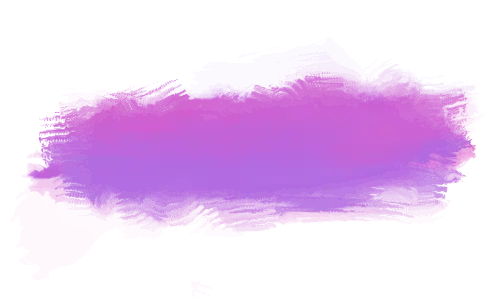
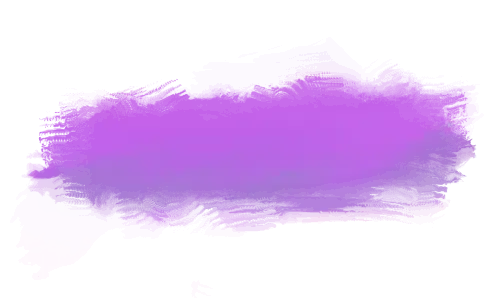
Disable auto scroll on mobile Make headers less tall Update values background Seperate contact block Adjust dark colors Adjust slider button location Adjust email text size Fix theme/lang at bottom Fix typo Fix email image color

diff --git a/app/components/Contact.vue b/app/components/Contact.vue
@@ -1,8 +1,10 @@
 <template>
   <SectionHeader v-bind="sections[2]!" />
-  <div class="bg-nt1-offwhite -mt-16 pb-2 sm:pb-4 md:pb-[10vh] dark:bg-black">
+  <div
+    class="bg-nt1-offwhite dark:bg-nt1-offblack -mt-16 flex pb-2 sm:pb-4 md:pb-[10vh]"
+  >
     <div
-      class="dark:bg-nt1-offblack mx-2 flex flex-col items-center rounded-b-2xl bg-white px-4 pt-20 sm:mx-4 sm:px-8 md:mx-auto md:w-2xl lg:w-4xl xl:w-5xl dark:text-white"
+      class="mx-2 mt-20 flex flex-col items-center rounded-2xl bg-white px-4 pt-8 sm:mx-4 sm:px-8 sm:pt-12 md:mx-auto md:w-2xl lg:w-4xl xl:mt-28 xl:w-5xl dark:bg-black dark:text-white"
     >
       <h4 class="mb-4 text-center text-3xl">{{ $t('contactTagLine') }}</h4>
 
@@ -33,7 +35,7 @@
 
         <a
           href="mailto:hello@naito.one"
-          class="absolute top-0 left-0 flex h-full w-full items-center justify-center text-2xl font-semibold text-white"
+          class="absolute top-0 left-0 flex h-full w-full items-center justify-center text-xl font-semibold text-white sm:text-2xl"
           ><span>hello@naito.one</span></a
         >
       </div>

diff --git a/app/components/Showcase.vue b/app/components/Showcase.vue
@@ -20,7 +20,7 @@
       >
     </div>
     <div
-      class="flex grow basis-0 flex-col-reverse gap-4 md:flex-col md:gap-0"
+      class="flex grow basis-0 flex-col gap-4 md:gap-0"
       @mouseenter="
         () => {
           hovered = true
@@ -101,6 +101,7 @@ import type { RouteLocationNormalized } from 'vue-router'
 import type { ShowcaseParams } from '~/showcases'
 
 const router = useRouter()
+const isMobile = useIsMobile()
 
 const props = defineProps<ShowcaseParams>()
 
@@ -173,7 +174,7 @@ function timeoutToScroll() {
 }
 
 function updateShouldRun() {
-  if (visible.value && !hovered.value) {
+  if (visible.value && !hovered.value && !isMobile.value) {
     if (!timeout) {
       timeoutToScroll()
     }
@@ -200,6 +201,8 @@ const onNavigate = (to: RouteLocationNormalized) => {
     }
   }
 }
+
+watch(isMobile, updateShouldRun)
 
 let observer: IntersectionObserver | null = null
 

diff --git a/i18n/locales/fr.ts b/i18n/locales/fr.ts
@@ -51,7 +51,7 @@ export default {
     proud: {
       header: 'Web fier',
       content:
-        "Pas de contenu bâclé IA, pas d'entrainement IA sur les données de nos clients, pas de profilage sournois, règles compréhensibles par des humains, partage de code & resources & connaissances. Contribution à des projets open source.",
+        "Pas de contenu bâclé IA, pas d'entrainement IA sur les données de nos clients, pas de profilage sournois, règles compréhensibles par des humains, partage de code & resources & connaissances, contribution à des projets open source.",
     },
   },
   contactTagLine:

diff --git a/app/components/Creations.vue b/app/components/Creations.vue
@@ -1,8 +1,8 @@
 <template>
   <SectionHeader v-bind="sections[0]!" />
-  <div class="bg-nt1-offwhite -mt-16 dark:bg-black">
+  <div class="bg-nt1-offwhite dark:bg-nt1-offblack -mt-16">
     <div
-      class="dark:bg-nt1-offblack mx-2 min-h-screen bg-white px-4 py-24 sm:mx-4 sm:px-8 md:px-16 md:py-32 lg:mx-16 dark:text-white"
+      class="mx-2 min-h-screen bg-white px-4 py-24 sm:mx-4 sm:px-8 md:px-16 md:py-32 lg:mx-16 dark:bg-black dark:text-white"
     >
       <ul class="flex flex-col gap-16">
         <li v-for="showcase in showcases" :key="showcase.slug">

diff --git a/app/components/SectionHeader.vue b/app/components/SectionHeader.vue
@@ -2,7 +2,7 @@
   <a
     :id="long"
     :href="`#${long}`"
-    class="relative z-10 -mt-16 flex h-60 w-full -scroll-mt-16 items-center justify-center gap-4 bg-[url(/images/mid.webp)] bg-size-[auto_100%] bg-center text-white md:h-72"
+    class="relative z-10 -mt-16 flex h-50 w-full -scroll-mt-16 items-center justify-center gap-4 bg-[url(/images/mid.webp)] bg-size-[auto_100%] bg-center text-white md:h-60"
   >
     <Icon class="shrink-0 text-3xl md:text-[2.5rem]" :name="icon" />
     <h3 class="text-xl font-semibold md:text-3xl">

diff --git a/i18n/locales/en.ts b/i18n/locales/en.ts
@@ -50,7 +50,7 @@ export default {
     proud: {
       header: 'Proud web',
       content:
-        'No AI content slop, no AI training from our client’s content, no sneaky profiling, human-readable policies, sharing of code & resources & knowledge. Contribution to open source projects.',
+        'No AI content slop, no AI training from our client’s content, no sneaky profiling, human-readable policies, sharing of code & resources & knowledge, contribution to open source projects.',
     },
   },
   contactTagLine:

diff --git a/app/composables/useIsMobile.ts b/app/composables/useIsMobile.ts
@@ -1,0 +1,16 @@
+const isMobile = ref(false)
+let setup = false
+
+export function useIsMobile() {
+  onMounted(() => {
+    if (!setup) {
+      const media = matchMedia('(pointer: fine), (hover: hover)')
+      isMobile.value = !media.matches
+      media.onchange = (e) => {
+        isMobile.value = !e.matches
+      }
+      setup = true
+    }
+  })
+  return isMobile
+}

diff --git a/app/components/Switcher.vue b/app/components/Switcher.vue
@@ -1,7 +1,7 @@
 <template>
   <input type="checkbox" name="dark-mode" id="dark-mode" class="hidden" />
   <div
-    class="fixed top-[90vh] right-0 z-30 flex gap-4 p-5 select-none lg:top-0"
+    class="fixed right-0 bottom-0 z-30 flex gap-4 p-5 select-none lg:top-0 lg:bottom-auto"
   >
     <label
       for="dark-mode"

diff --git a/app/layouts/default.vue b/app/layouts/default.vue
@@ -1,6 +1,8 @@
 <script setup lang="ts"></script>
 <template>
-  <Body class="bg-nt1-offwhite font-content text-nt1-offblack dark:bg-black">
+  <Body
+    class="bg-nt1-offwhite font-content text-nt1-offblack dark:bg-nt1-offblack"
+  >
     <Switcher />
     <slot />
   </Body>

diff --git a/app/assets/css/main.css b/app/assets/css/main.css
@@ -71,7 +71,7 @@
   }
 
   & .with-dark-overlay::after {
-    @apply bg-neutral-800/50;
+    @apply bg-neutral-800/70;
     display: block;
     content: '';
     position: absolute;
